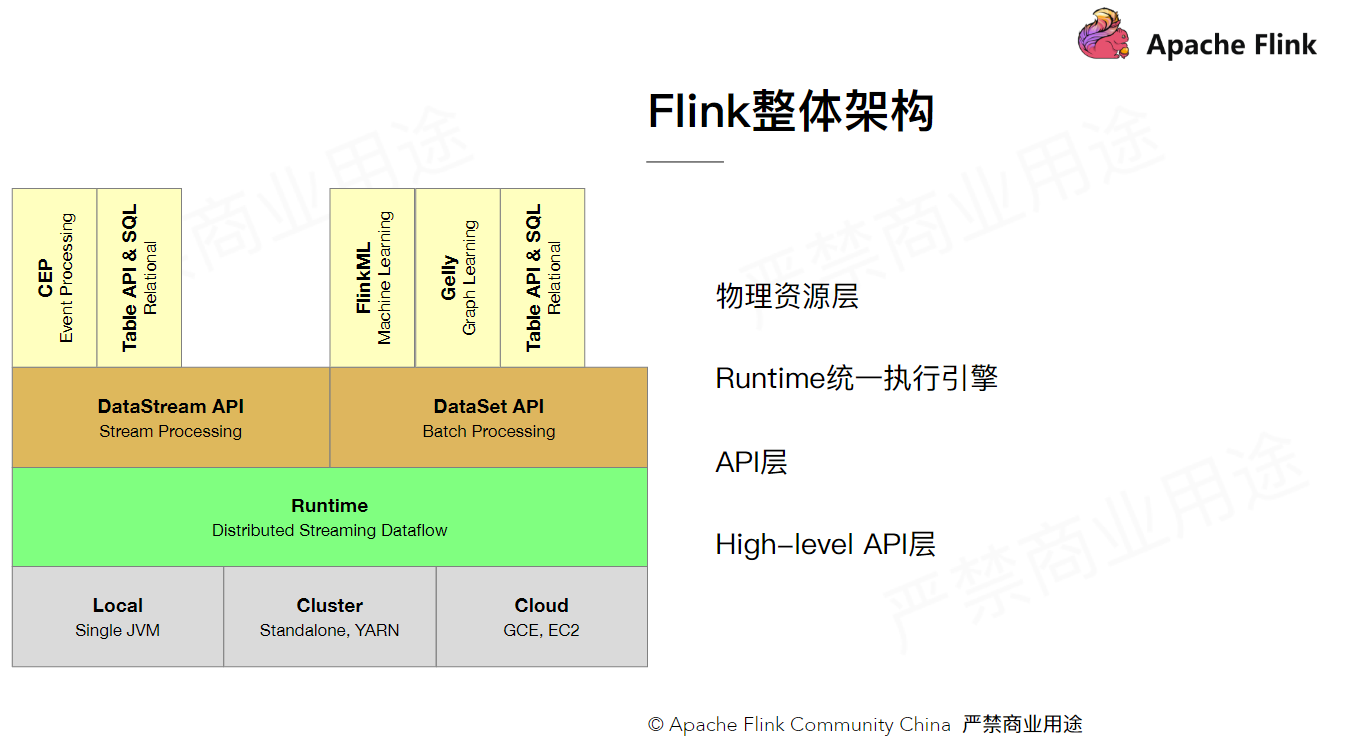
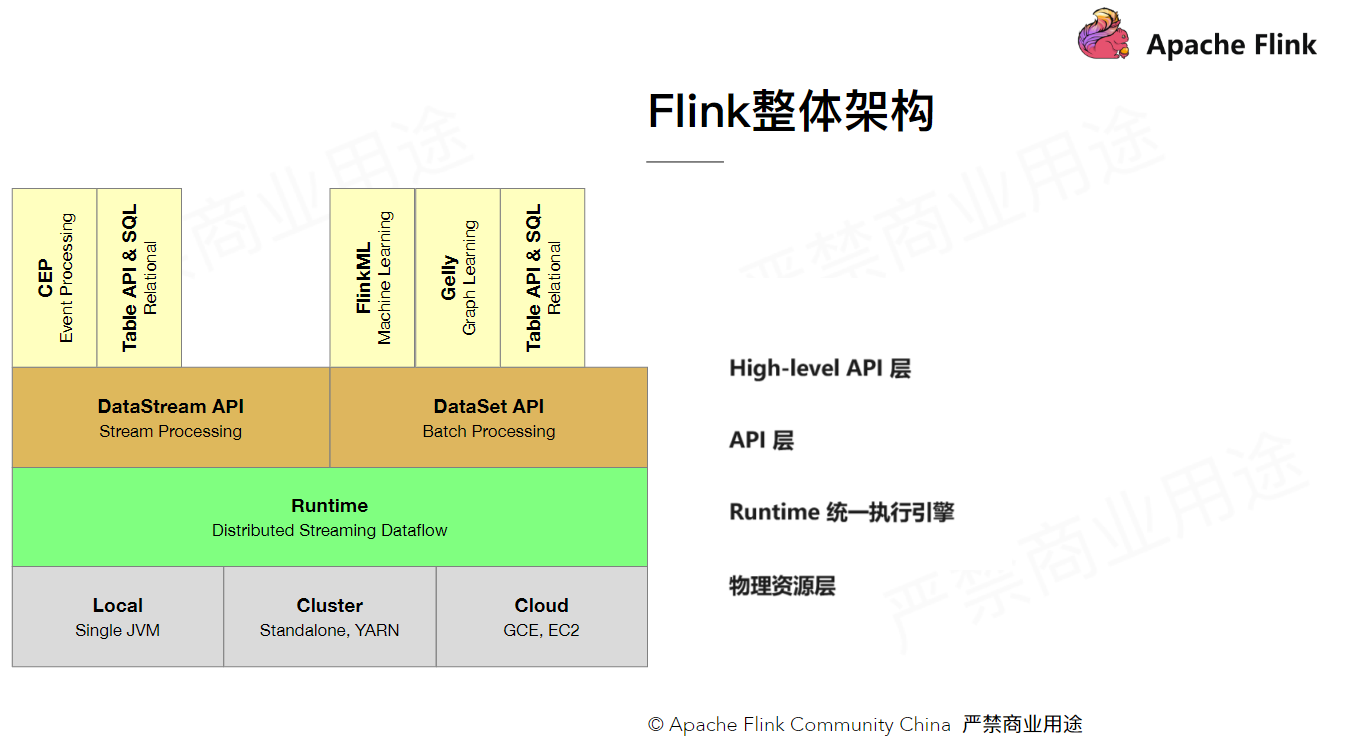
Flink 学习

diff --git a/doc/flink/02.Flink 进阶教程.md b/doc/flink/02.Flink 进阶教程.md
@@ -6,10 +6,20 @@
 
 [官方文档：Flink 架构](https://nightlies.apache.org/flink/flink-docs-release-1.13/zh/docs/concepts/flink-architecture/)
 
-**图右侧倒序**
 ![Flink 整体架构](/pic/flink/Flink%20整体架构.png)
 
 ![Flink Runtime 层总体架构](/pic/flink/Flink%20Runtime%20层总体架构.png)
 
+
+
+# Flink Time 深度解析
+
+[【【Apache Flink 进阶教程】2. Flink Time 深度解析】](https://www.bilibili.com/video/BV1G441177wT)
+
+[Flink Time 深度解析.pdf](./ppt/2.2%20Flink%20Time%20深度解析.pdf)
+
+![Flink 支持的时间语义](/pic/flink/Flink%20支持的时间语义.png)
+
+![Flink Timestamp 分配和 Watermark 生成](/pic/flink/Flink%20Timestamp%20分配和%20Watermark%20生成.png)
 
 
